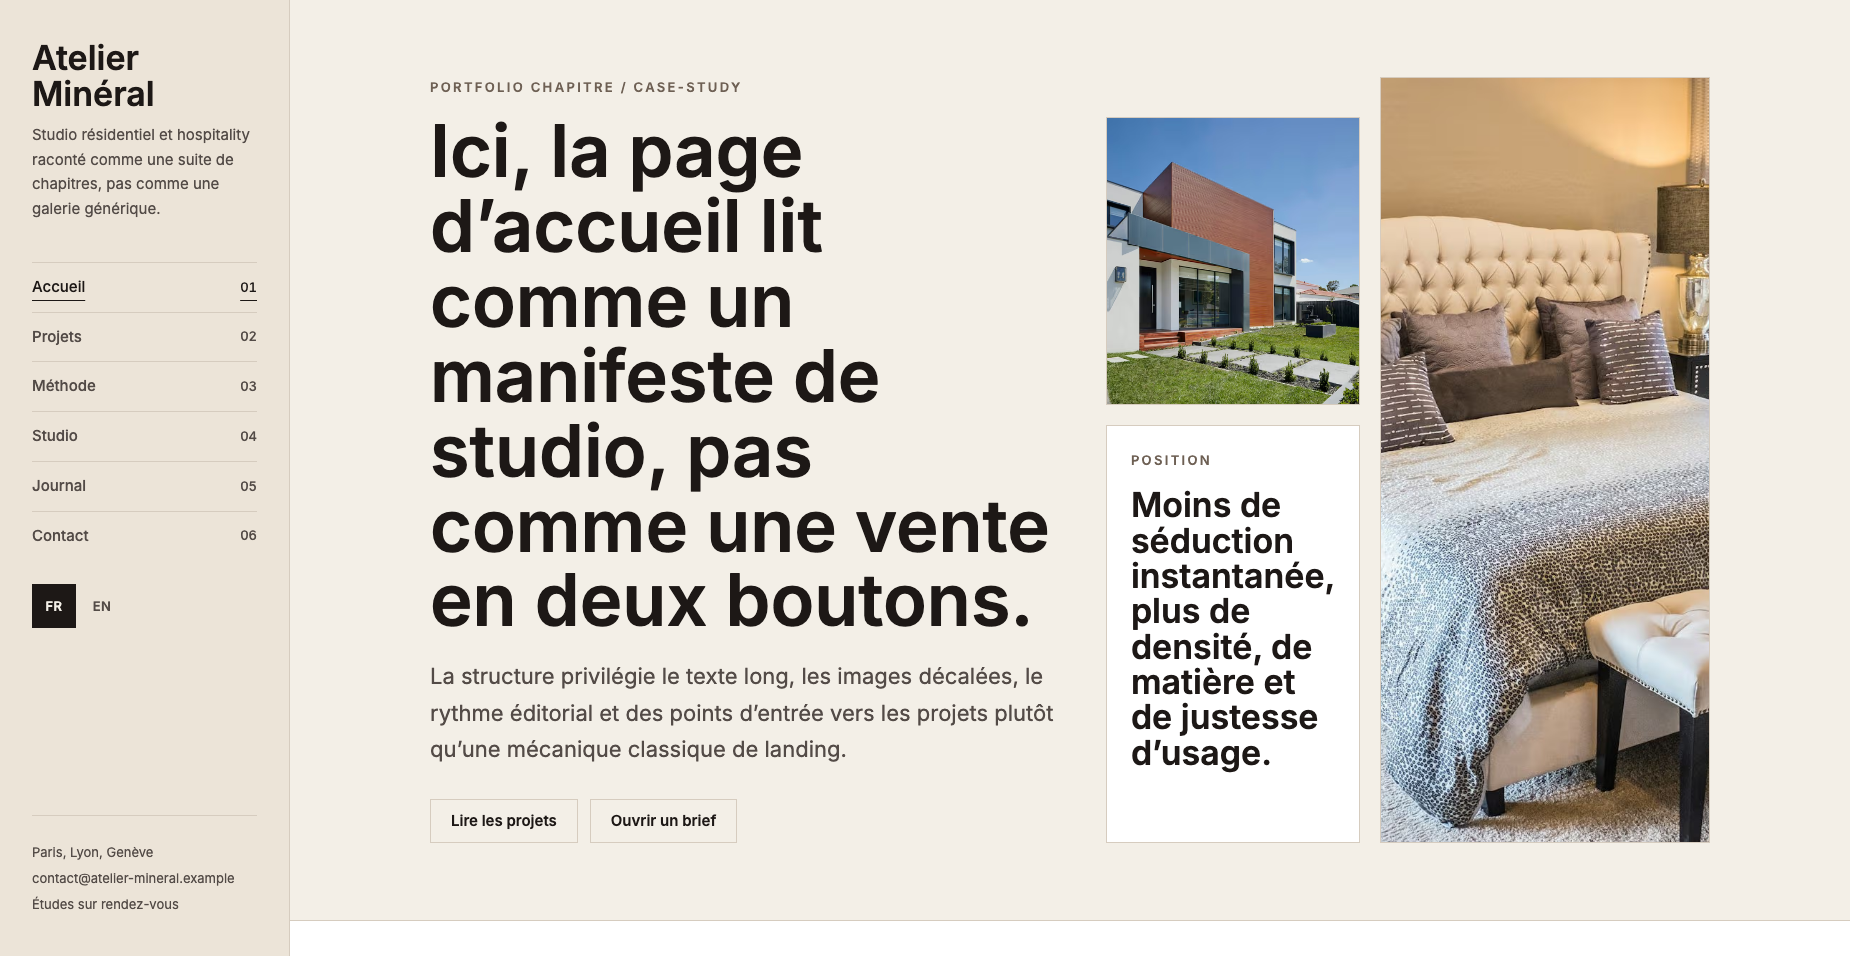
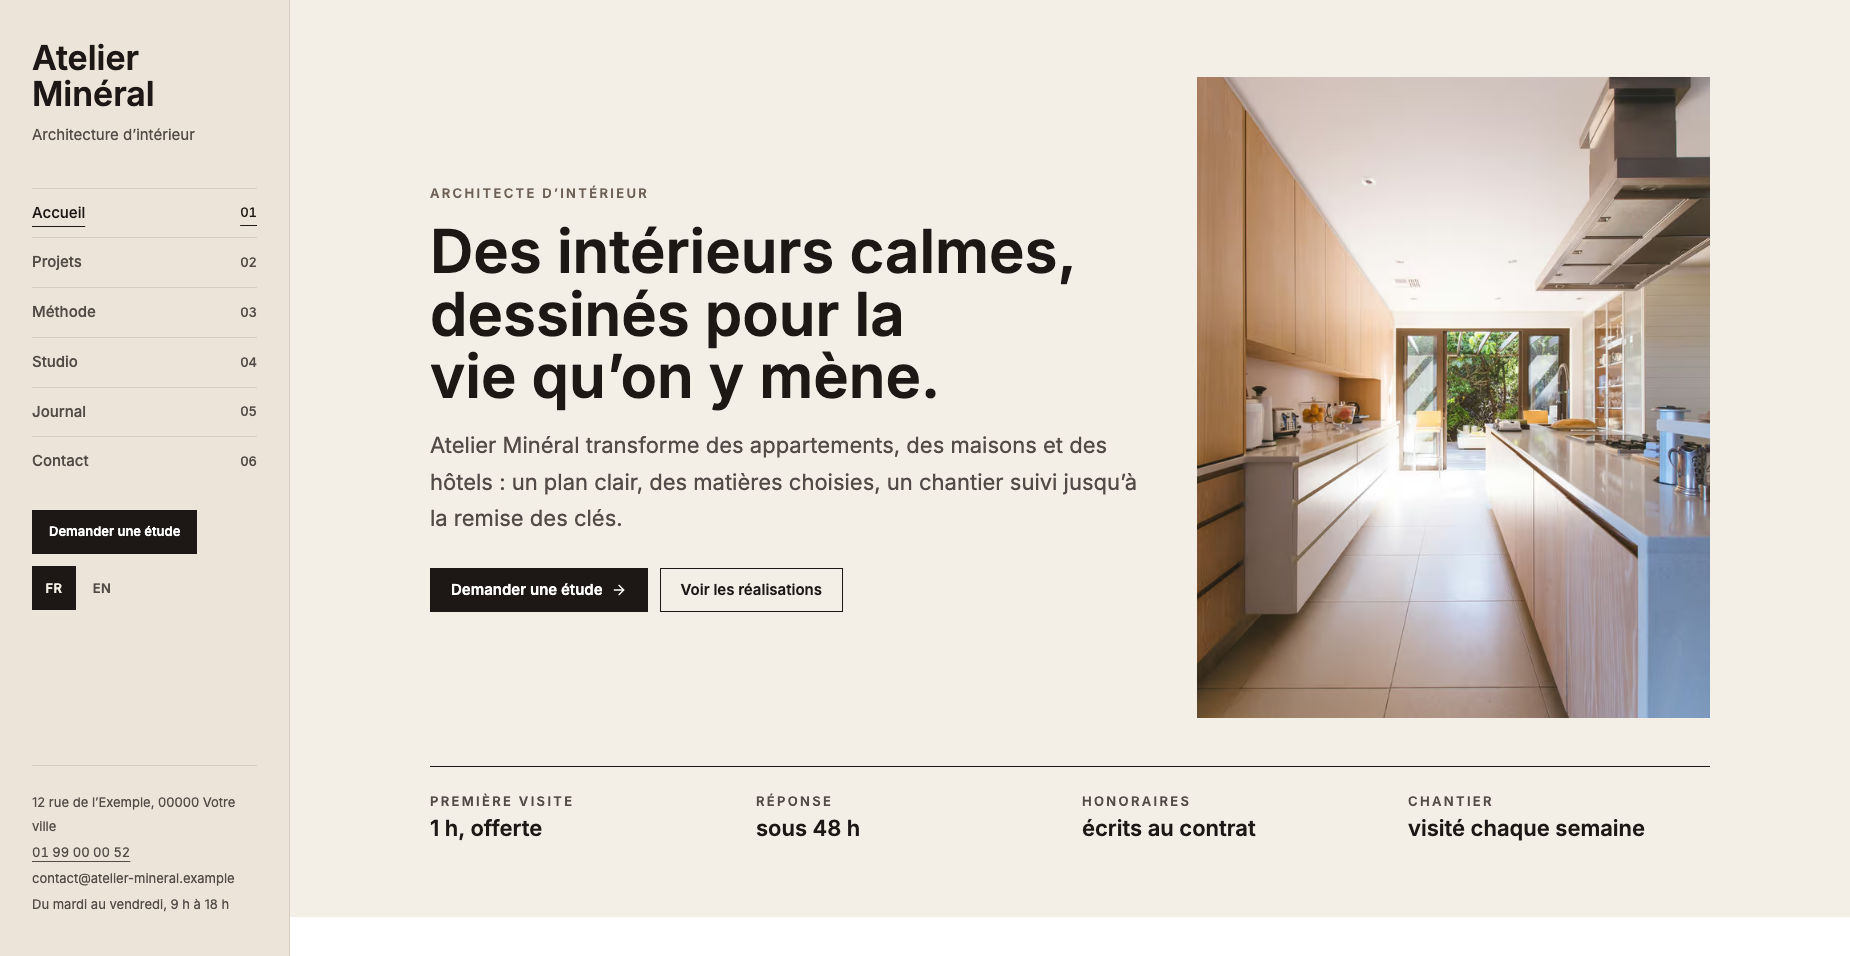
docs(templates): galerie et documentation après les refontes (phase 6)
Textes de galerie FR et EN et captures 1850 × 956 des sept templates
refondus (restaurant-bistrot, salon-coiffure, menage-nettoyage,
cabinet-avocat, dentiste, architecte-interieur, ordinateur) : chaque
description dit ce que la démo montre, sans jargon de designer.
docs/templates.md : poids réel de dentiste (114 kB), migration et
refonte distinguées, nouvelle section 9 « Refondre un template » (règles
visuelles, copie, photos, sizes, rect en pixels de l'original).
CLAUDE.md : état de la phase 6.

Vérification indépendante : PASS au tour 1.

diff --git a/src/content/templates/registry.ts b/src/content/templates/registry.ts
@@ -176,12 +176,12 @@ const TEMPLATES = [
         fr: {
           name: "Template Réparation ordinateur",
           description:
-            "Une vitrine directe et rassurante pour présenter vos services, vos garanties et vos prises de contact sans friction.",
+            "Un atelier de réparation d’ordinateurs, Mac et PC : diagnostic gratuit sous 24 h ouvrées, devis ferme avant toute réparation, garantie de 6 mois, dépôt ou enlèvement.",
         },
         en: {
           name: "Computer repair template",
           description:
-            "A direct and reassuring site to present your services, your guarantees and your contact options without friction.",
+            "A computer repair shop for Mac and PC: free diagnosis within one business day, a firm quote before any repair, a 6-month warranty, shop drop-off or pickup.",
         },
       },
     },
@@ -223,12 +223,12 @@ const TEMPLATES = [
         fr: {
           name: "Template Dentiste",
           description:
-            "Une base clinique premium pour structurer l'information, rassurer dès le hero et pousser la prise de rendez-vous sans friction.",
+            "Un cabinet dentaire qui explique chaque soin, remet un devis écrit avant tout traitement et propose un premier rendez-vous sous 48 h, avec réservation en ligne.",
         },
         en: {
           name: "Dentist template",
           description:
-            "A premium clinical base to structure information, reassure from the hero section and drive appointment booking without friction.",
+            "A dental practice that explains every treatment, gives a written estimate before any care and offers a first appointment within 48 hours, with online booking.",
         },
       },
     },
@@ -269,12 +269,12 @@ const TEMPLATES = [
         fr: {
           name: "Template Salon de coiffure",
           description:
-            "Une direction lifestyle et booking-first avec lookbook, prestations, équipe et réservations dans un cadre plus éditorial.",
+            "Un salon qui affiche ses prestations avec les prix, présente ses trois stylistes, montre des coiffures récentes en photo et prend les réservations en ligne.",
         },
         en: {
           name: "Hair salon template",
           description:
-            "A lifestyle, booking-first direction with a lookbook, services, team and reservations in a more editorial setting.",
+            "A salon that lists its services with prices, introduces its three stylists, shows recent hairstyles in photos and takes bookings online.",
         },
       },
     },
@@ -292,12 +292,12 @@ const TEMPLATES = [
         fr: {
           name: "Template Ménage & nettoyage",
           description:
-            "Une page claire et rassurante pour vendre des formules, des zones couvertes et une promesse de simplicité immédiate.",
+            "Une entreprise de ménage à domicile et de nettoyage de bureaux : devis en quatre questions, formules, secteurs desservis, prix ferme sous 24 h et questions fréquentes.",
         },
         en: {
           name: "Housekeeping & cleaning template",
           description:
-            "A clear, reassuring page to sell service packages, areas covered and a promise of instant simplicity.",
+            "A home and office cleaning company: a quote in four questions, service packages, areas served, a firm price within 24 hours and frequently asked questions.",
         },
       },
     },
@@ -315,12 +315,12 @@ const TEMPLATES = [
         fr: {
           name: "Template Restaurant bistrot",
           description:
-            "Un univers d'hospitalité plus immersif pour mettre en avant ambiance, carte, réservation et privatisation.",
+            "La carte courte qui suit le marché, une cave au verre, un comptoir sans réservation, la réservation de table et la privatisation pour 9 à 20 convives.",
         },
         en: {
           name: "Bistro restaurant template",
           description:
-            "A more immersive hospitality universe to highlight the atmosphere, the menu, reservations and private-event bookings.",
+            "A short menu that follows the market, wines by the glass, a walk-in counter, table reservations and private dining for 9 to 20 guests.",
         },
       },
     },
@@ -338,12 +338,12 @@ const TEMPLATES = [
         fr: {
           name: "Template Architecte d'intérieur",
           description:
-            "Une base narrative et premium pour vendre une direction artistique, des projets et une méthode en format portfolio.",
+            "Un studio d’architecture d’intérieur : réalisations en photo, honoraires annoncés d’avance, méthode en quatre temps et premier rendez-vous d’une heure offert.",
         },
         en: {
           name: "Interior architect template",
           description:
-            "A narrative, premium base to sell an artistic direction, projects and a method in a portfolio format.",
+            "An interior architecture studio: photos of its projects, fees stated up front, a four-step method and a free one-hour first meeting.",
         },
       },
     },
@@ -361,12 +361,12 @@ const TEMPLATES = [
         fr: {
           name: "Template Cabinet d'avocat",
           description:
-            "Une landing sobre et autoritaire pour convertir sur la consultation initiale avec preuve d'expertise et structure documentaire.",
+            "Un cabinet d’avocats d’affaires pour dirigeants et PME : domaines d’intervention, honoraires annoncés, première consultation de 45 minutes, réponse sous 48 h ouvrées.",
         },
         en: {
           name: "Law firm template",
           description:
-            "A sober, authoritative landing page to convert on the initial consultation, with proof of expertise and a document-style structure.",
+            "A business law firm for owners and small companies: practice areas, fees quoted up front, a 45-minute first consultation and a reply within 2 business days.",
         },
       },
     },

diff --git a/docs/templates.md b/docs/templates.md
@@ -1,8 +1,8 @@
 # Templates de démonstration : guide
 
-Comment créer, migrer et vérifier un template Sitekept. Le code fait foi : en cas d'écart avec ce guide, c'est le guide qu'on corrige. Modèle de référence : `dentiste`.
+Comment créer, migrer et vérifier un template Sitekept. Le code fait foi : en cas d'écart avec ce guide, c'est le guide qu'on corrige. Modèle de référence pour une migration : `dentiste` (avant sa refonte, voir section 9). Modèles de finition pour un nouveau template ou une refonte : `expert-comptable`, `coffee-shop`, `garage-auto`.
 
-État (fin de la phase 5) : les treize démos publiques sont sur le kit et bilingues (`dentiste` et les douze migrées ou fusionnées en phase 5 ; `pattiserie` est devenue `patisserie`, avec redirection). Neuf templates sont nés bilingues sur le kit, au statut `lab` servi ici (`noindex`, hors galerie, en attente de validation) : `electricien`, `osteopathe`, `reparation-mobile`, `spa-massage`, `coffee-shop`, `createur-culinaire`, `garage-auto`, `photographe`, `expert-comptable`. `agent-immobilier` et `plombier-serrurier` ont été fusionnés dans `agence-immobiliere` et `plombier-chauffagiste` (un seul template par métier). Le registre unique (`src/content/templates/registry.ts`) liste tous les templates.
+État (phase 6) : les treize démos publiques sont sur le kit et bilingues (migrées ou fusionnées en phase 5 ; `pattiserie` est devenue `patisserie`, avec redirection). La phase 6 a refondu sept d'entre elles, de l'accueil aux sous-pages, en FR et en EN : `restaurant-bistrot`, `salon-coiffure`, `menage-nettoyage`, `cabinet-avocat`, `dentiste`, `architecte-interieur` et `ordinateur` (section 9). `fleuriste`, `patisserie`, `boulangerie` et `avocate` ont une copie revue en phase 6 ; `agence-immobiliere` et `plombier-chauffagiste` ont reçu des retouches. Neuf templates sont nés bilingues sur le kit, au statut `lab` servi ici (`noindex`, hors galerie, en attente de validation) : `electricien`, `osteopathe`, `reparation-mobile`, `spa-massage`, `coffee-shop`, `createur-culinaire`, `garage-auto`, `photographe`, `expert-comptable`. `agent-immobilier` et `plombier-serrurier` ont été fusionnés dans `agence-immobiliere` et `plombier-chauffagiste` (un seul template par métier). Le registre unique (`src/content/templates/registry.ts`) liste tous les templates.
 
 ## 1. Architecture
 
@@ -226,7 +226,7 @@ Helpers de liens (purs, utilisables côté client et serveur), plus `TEMPLATE_LO
 - Entreprises fictives uniquement. Aucun texte, image ni coordonnée de vrais clients ; aucun nom, domaine d'e-mail ou lieu qui permette de les identifier.
 - Coordonnées manifestement factices : e-mail en `.example`, numéro d'une plage fictive de l'ARCEP (`01 99 00`, `02 61 91`, `03 53 01`, `04 65 71`, `05 36 49`, `06 39 98`).
 - Version anglaise : traduction neutre de la même entreprise. Marque « Your business », e-mail `contact@example.com`, numéro factice conservé, prix en euros.
-- Les images viennent de `public/` ou d'une source libre de droits, passent par `TemplateMedia`, avec un `alt` traduit. Chaque photo est regardée à 2400 px, avec un zoom sur les objets (livres, montres, outils, étiquettes, cadres) : aucune marque, texte lisible ni visage reconnaissable, et le sujet est le bon (pas de rendu IA). Une photo ne sert qu'à un template : chercher l'identifiant nu (`1600047509807`), les définitions l'écrivent sans préfixe `photo-`. Un recadrage imgix (`&rect=x,y,w,h` en proportions) peut exclure un détail gênant.
+- Les images viennent de `public/` ou d'une source libre de droits, passent par `TemplateMedia`, avec un `alt` traduit. Chaque photo est regardée à 2400 px, avec un zoom sur les objets (livres, montres, outils, étiquettes, cadres) : aucune marque, texte lisible ni visage reconnaissable, et le sujet est le bon (pas de rendu IA). Une photo ne sert qu'à un template : chercher l'identifiant nu (`1600047509807`), les définitions l'écrivent sans préfixe `photo-`. Un recadrage imgix (`&rect=x,y,w,h`, en pixels de l'original) peut exclure un détail gênant.
 - Titres de page (lot B, convention à confirmer pour les autres) : « Page - Votre entreprise » / « Page - Your business », et « Votre entreprise - <activité> » pour l'accueil.
 - Anglais des États-Unis, sans calque du français.
 
@@ -265,11 +265,11 @@ Ils vivent dans `src/components/template-kit/vendor/<nom>/` avec un `SOURCE.md` 
 - **Harnais** : `scripts/template-harness/` (`routes.txt`, `snapshot.mjs`, `headers.sh`, `README.md`). Snapshot du texte rendu de chaque route, comparé à une baseline prise sur un commit de référence, plus contrôle des en-têtes `X-Robots-Tag`. Procédure complète dans son `README.md` ; raccourcis `pnpm harness:snapshot <url> <dossier>` et `pnpm harness:headers <url>`. Les snapshots s'écrivent hors du dépôt.
 - **Jamais de build dans le dépôt** : `pnpm build` se lance dans une copie isolée (`rsync` sans `.git`, `.next`, `node_modules` ni `.env*`, puis lien symbolique vers `node_modules`). Et on ne tue jamais un processus qu'on n'a pas lancé.
 - `pnpm type-check` et `pnpm lint` se lancent dans le dépôt.
-- Poids JS : à la fin du `pnpm build` isolé, relever le « First Load JS » des routes du template. `dentiste` est à 108 kB ; un écart de plusieurs kB vient presque toujours d'un import du barrel, de `cn()` dans un composant client, ou de `TemplateDemoForm` importé là où il n'est pas utilisé.
+- Poids JS : à la fin du `pnpm build` isolé, relever le « First Load JS » des routes du template. `dentiste` est à 114 kB (115 kB pour ses pages à formulaire) ; un écart de plusieurs kB vient presque toujours d'un import du barrel, de `cn()` dans un composant client, ou de `TemplateDemoForm` importé là où il n'est pas utilisé.
 
 ## 8. Migrer un template existant
 
-Pour passer une démo écrite à la main (hex en dur, `*-ui.tsx`, formulaire client maison) sur le kit, avec sa version anglaise. Modèle : `dentiste`. Le principe : **le rendu français ne change pas**, à l'exception des corrections voulues.
+Pour passer une démo écrite à la main (hex en dur, `*-ui.tsx`, formulaire client maison) sur le kit, avec sa version anglaise. `dentiste` en a été le modèle en phase 5 ; elle a depuis été refondue (phase 6, section 9) et son rendu n'est plus celui d'une migration. Le principe : **le rendu français ne change pas**, à l'exception des corrections voulues. Il vaut pour une migration, pas pour une refonte : pour refaire le dessin et la copie d'un template déjà sur le kit, voir la section 9.
 
 1. **Baseline avant de toucher au code.** Ajouter les routes du template à `routes.txt` s'il en manque, puis prendre un snapshot du commit de référence (README du harnais). Repérer ce que la démo contient : pages, textes, images, formulaires, composants locaux (`*-ui.tsx`), couleurs en dur.
 2. **Extraire la copie à rendu FR constant.** Copier chaque texte visible tel quel dans `const fr = { … } as const` de `src/content/templates/<slug>.ts` : ponctuation, majuscules, `alt`. Pas de reformulation à cette étape : une copie qui change le texte fausse la diff. Seules corrections admises (à lister) : apostrophes `’`, espaces insécables, guillemets « », faute d'orthographe, coordonnée hors plage fictive, nom complet d'un avis réduit à « Prénom I. ». Ajouter le bloc `meta` (titre et description par page) et les `paths`. Les vues lisent `getTemplateCopy(def, locale)`.
@@ -288,3 +288,28 @@ Pour passer une démo écrite à la main (hex en dur, `*-ui.tsx`, formulaire cli
 - Fichiers EN (`en__<slug>*.txt`) : n'existent pas dans la baseline. Les relire : aucun français visible, un `<h1>`, un `<title>` anglais, `LANG: en`.
 - Rythme : `density="compact"` correspond à l'ancien `py-16` ; garder la hauteur d'une page à 25 % près.
 - Les snapshots ne voient ni les classes ni les couleurs : le rendu visuel se vérifie par les captures (390, 768, 1440 px).
+
+## 9. Refondre un template (phase 6)
+
+Refaire un template déjà sur le kit : accueil, sous-pages, photos et copie, FR et EN, en gardant la famille de couleurs et la police d'affichage. Les URL, les pages et le registre ne changent pas. Contrairement à une migration (section 8), le rendu français change, et la diff de snapshot n'est plus vide : elle se relit page par page. Fait en phase 6 pour `restaurant-bistrot`, `salon-coiffure`, `menage-nettoyage`, `cabinet-avocat`, `dentiste`, `architecte-interieur` et `ordinateur`.
+
+**Règles visuelles** (à tenir et à mesurer) :
+- **Typo** : échelle `text-tpl-*`, sur-titre au tracking du token (`tracking-tpl-eyebrow`), `text-balance` sur les titres et `text-pretty` sur les paragraphes (déjà dans `TemplateHeading`), ligne de 68 caractères au plus.
+- **Grille** : deux largeurs de contenu (`7xl`, `5xl`) ; découpes 7/5, 8/4 ou 1/1, et leur miroir. Pas de colonnes à pourcentage arbitraire.
+- **Formes** : deux rayons (`radius`, `radiusPill`) et deux ombres (`shadow-tpl-sm`, `shadow-tpl-lg`) au plus, ombres dérivées de l'encre.
+- **Images** : trois ratios au plus par template, un seul type de voile (le dégradé de `TemplateHeroMedia`), au plus une image pleine largeur par section, aucun `background-image`.
+- **Mouvement** : `ScrollReveal` facultatif, trois paliers de délai au plus (0, 80, 160 ms), distance de 16 à 20 px ; survol `-translate-y-0.5` en 200 ms ; tout respecte `prefers-reduced-motion`.
+- **Contraste** : texte courant à 4,5:1 au moins, partout (fond uni mesuré par le DOM, texte sur photo ou dégradé mesuré au pixel sur capture) ; la paire `ink-muted` / `surface` est relevée.
+- À éviter : une grille de cartes identiques par section, un sur-titre sur chaque section, des pilules partout, du remplissage, des chiffres sans source plausible, une section vide à 1440 px.
+
+**Copie** : elle parle du métier, jamais du site. Aucun mot de designer (« homepage », « hero », « section », « structure », « conversion », « landing », « module ») dans le texte visible, les `alt` et les `meta` : elle s'adresse au client de l'entreprise fictive. Totaux, prix, horaires, années et délais sont les mêmes d'une page à l'autre et entre FR et EN ; adresses manifestement fictives, sans lieu réel.
+
+**Photos** :
+- Téléchargées à 2400 px et regardées avec un zoom sur chaque objet à risque ; l'`alt` (FR et EN) décrit ce qu'on voit ; une photo ne sert qu'à un template.
+- Un recadrage imgix se déclare dans l'URL servie, avec `rect=x,y,w,h` **en pixels de l'original** (pas en proportions), de sorte que le fichier servi est celui qu'on a regardé.
+- `sizes` mesuré sur le rendu réel à 390, 768, 1024 et 1440 px : facteur d'agrandissement (largeur utile × DPR rapportée au `w` de `currentSrc`) d'au plus 1,3 à DPR 1. Le contenu plafonne à 1280 px : `sizes` plafonne donc aussi, avec un palier fixe en pixels à partir de 1344 px (`(min-width: 1344px) 608px, (min-width: 1024px) 45vw, …`), sinon la photo est trop agrandie sur un grand écran.
+- `priority` sur l'image du hero seulement ; CLS à 0.
+
+**Vérification** : comme section 7 (type-check, lint, build isolé, snapshot, en-têtes, greps), plus des captures avant / après à 390, 768 et 1440 px en FR et en EN, regardées une à une, la mesure du contraste de tous les textes, et un second regard (vérificateur indépendant) sur l'état exact qui sera commité. Les captures de galerie et les textes du registre se refont à la fin (section 4, « Passage en public »).
+
+**État** : les sept templates ci-dessus sont refondus et commités ; la galerie (`/templates`, `/en/templates`) montre leurs nouvelles captures et de nouveaux textes. Le kit a évolué pendant la phase pour eux (menu mobile au clavier, bascule en navigation en ligne à 1280 px avec `xl:@min-[78rem]:`, `sizes` de `TemplateHeroMedia`, `position` de `TemplateMedia`, `imageSizes` à 512, image Open Graph anglaise) : tout est décrit en section 3 et dans `next.config.ts`.

diff --git a/CLAUDE.md b/CLAUDE.md
@@ -130,7 +130,7 @@ src/
 - **English versions**: `/en/<slug>` under `src/app/(demos-en)/en/<slug>/`, with its own root layout (`lang="en"`, `DemoBanner locale="en"`)
 - **Demo links**: derived from the registry (`src/content/templates/registry.ts`), never from a hand-written slug list. `PATH_MAP` (`src/lib/localized-routes.ts`) maps `/<slug>` to `/en/<slug>` for every public template; the gallery and the trade pages (`src/views/metier.tsx`) run demo links through `linkLocalizer`. The admin page shows FR and EN links from `toAdminCatalogEntry`
 - **SEO**: demos are `noindex, follow` (`isDemoPathname` in `src/lib/public-template-routes.ts`, derived from the registry and applied by `src/middleware.ts`), metadata (title, description, `openGraph`, `twitter`, hreflang) from `buildTemplatePageMetadata`, kept out of the sitemap
-- **Status**: the thirteen public demos are on the kit and bilingual (`pattiserie` became `patisserie`, the old URL redirects and stays `noindex`; `agence-immobiliere` absorbed `agent-immobilier`, `plombier-chauffagiste` absorbed `plombier-serrurier`); nine templates were born bilingual on the kit as routed `lab` (noindex, out of the gallery, awaiting Joseph's validation): `electricien`, `osteopathe`, `reparation-mobile`, `spa-massage`, `coffee-shop`, `createur-culinaire`, `garage-auto`, `photographe`, `expert-comptable`
+- **Status**: the thirteen public demos are on the kit and bilingual (`pattiserie` became `patisserie`, the old URL redirects and stays `noindex`; `agence-immobiliere` absorbed `agent-immobilier`, `plombier-chauffagiste` absorbed `plombier-serrurier`); nine templates were born bilingual on the kit as routed `lab` (noindex, out of the gallery, awaiting Joseph's validation): `electricien`, `osteopathe`, `reparation-mobile`, `spa-massage`, `coffee-shop`, `createur-culinaire`, `garage-auto`, `photographe`, `expert-comptable`. Phase 6: seven public demos were redesigned (`restaurant-bistrot`, `salon-coiffure`, `menage-nettoyage`, `cabinet-avocat`, `dentiste`, `architecte-interieur`, `ordinateur`: new homepage and subpages, photos, FR + EN copy, gallery captures and texts refreshed), the copy of `fleuriste`, `patisserie`, `boulangerie` and `avocate` was reviewed, and the kit gained a keyboard-safe mobile menu, a container-aware inline-nav breakpoint, `sizes`/`position` props on the media components, `imageSizes` 512 and an English Open Graph image (see `docs/templates.md` section 9)
 - **Vendor**: 21st.dev elements live in `src/components/template-kit/vendor/<name>/` (each with a `SOURCE.md` and a `LICENSE`), outside the barrel `index.ts` and imported per module, styled only with `tpl-*` tokens; the intake is described in `docs/templates.md` section 6
 - **Harness**: `scripts/template-harness/` (route snapshots, `X-Robots-Tag` check; `pnpm harness:snapshot`, `pnpm harness:headers`), run against an isolated build, never in the repo
 - **Guide**: see `docs/templates.md` for the skeleton, the kit, the "add a FR + EN template" checklist, "migrate an existing template", content rules and the 21st.dev intake protocol
